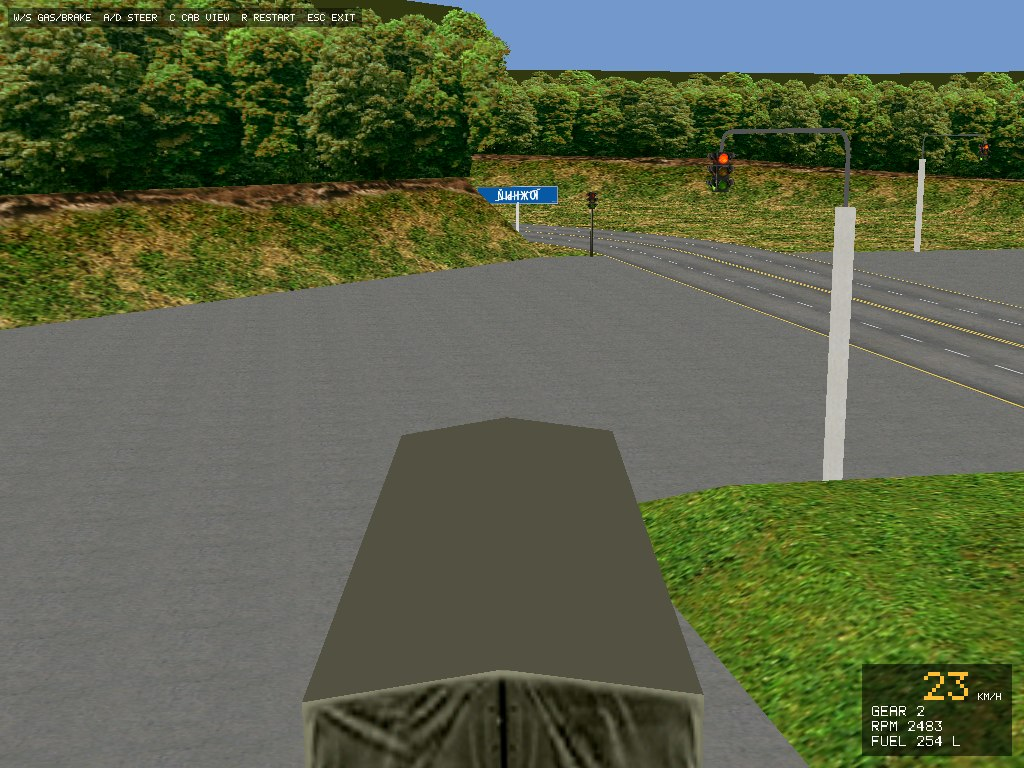
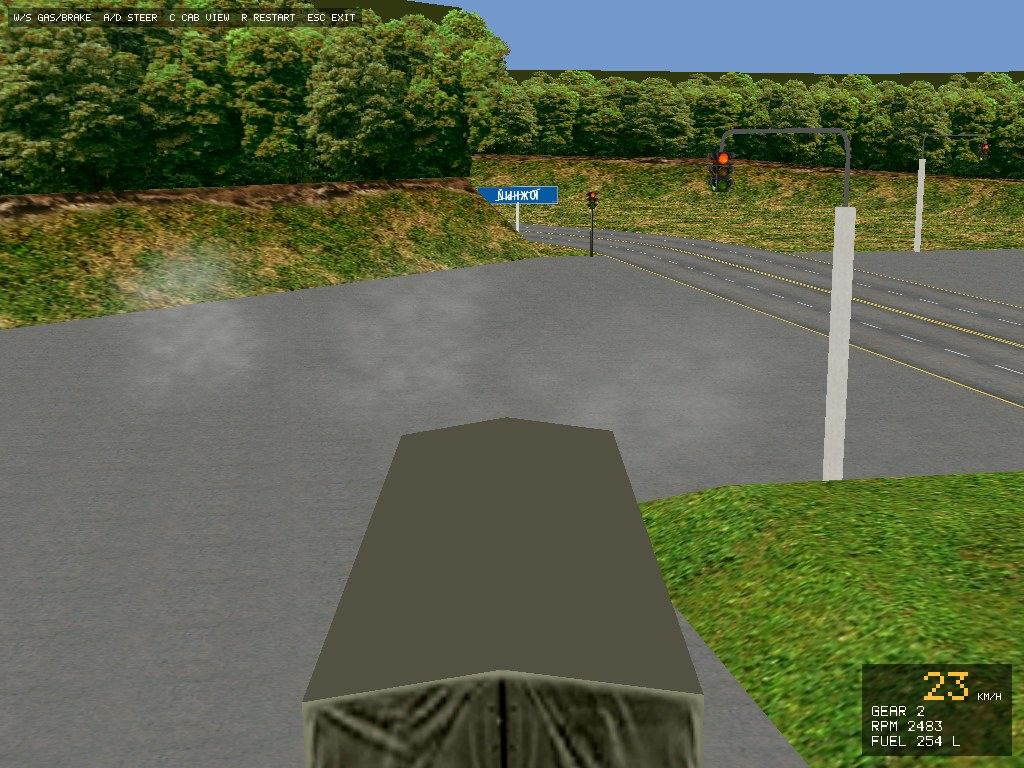
Site: fresh screenshots and progress of the body virtuals

Changed region(s): [[0.0938, 0.3125, 0.25, 0.4688]]

diff --git a/site/index.html b/site/index.html
@@ -56,7 +56,7 @@
       <li class="done"><span class="tag">готово</span><span>Палитровые UI-текстуры TXR/TGA: все 172 изображения LOAD.RES декодируются без пропусков; интерактивные меню ещё в работе</span></li>
       <li><span class="tag">в работе</span><span>Итоговые экраны показывают исходные фоны из esc16.RES; фон победы проверен снимком. Таблица рейтинга и кнопки ещё не перенесены</span></li>
       <li class="done"><span class="tag">готово</span><span>Чтение атласов FON: метрики и маски всех 1792 символов семи шрифтов совпали с оригиналом на эмуляторе; размещение текста ещё в работе</span></li>
-      <li><span class="tag">в работе</span><span>Обновление сценической машины (<code>0x54ff80</code>) переносится по частям, каждая сверена с оригиналом в эмуляторе: триггер удара, наклон кузова, биты приборов, пыль колёс, лучи света целиком, выбор манёвра (<code>0x54f040</code>: 250 случаев со всей функцией и записанными ответами дорожного модуля), проверка приборов, зонд луча (<code>0x54cb90</code>), слоты запросов (<code>0x54d0b0</code>), сброс объекта (<code>0x580dd0</code>), «returnToLast» (<code>0x554670</code>), сетевые сообщения (<code>0x546360</code>, <code>0x546240</code>); вся функция собрана из частей и сверена с настоящей <code>0x54ff80</code> на 150 случайных сценах (внешние объекты движка — владельцы-заглушки, их порты впереди). Дорожный модуль дополнен проверкой односторонних сегментов, зонами точек и поиском по таблице имён (сверка с эмулятором на карте ENV)</span></li>
+      <li><span class="tag">в работе</span><span>Обновление сценической машины (<code>0x54ff80</code>) переносится по частям, каждая сверена с оригиналом в эмуляторе: триггер удара, наклон кузова, биты приборов, пыль колёс, лучи света целиком, выбор манёвра (<code>0x54f040</code>: 250 случаев со всей функцией и записанными ответами дорожного модуля), проверка приборов, зонд луча (<code>0x54cb90</code>), слоты запросов (<code>0x54d0b0</code>), сброс объекта (<code>0x580dd0</code>), «returnToLast» (<code>0x554670</code>), сетевые сообщения (<code>0x546360</code>, <code>0x546240</code>); вся функция собрана из частей и сверена с настоящей <code>0x54ff80</code> на 150 случайных сценах (внешние объекты движка — владельцы-заглушки, их порты впереди). Дорожный модуль дополнен проверкой односторонних сегментов, зонами точек и поиском по таблице имён (сверка с эмулятором на карте ENV) Перенесены и виртуалы тела MovingItem: шаг интегрирования (<code>0x580ce0</code>), поза (<code>0x580f80</code>), «place» (<code>0x581230</code>), диспетчер запросов столкновения (<code>0x58dff0</code>) и луч по дороге (<code>0x5843c0</code>, <code>0x4e6578</code>) — каждый сверен с эмулятором побитово.</span></li>
       <li><span class="tag">план</span><span>Интерфейс, звук, задания, торговля</span></li>
     </ul>
   </div>
